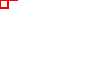
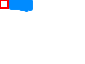
Commit of the day

Changed region(s): [[0.0941, 0.0, 0.4, 0.1875]]

diff --git a/Battleship/Battleship/Entity/ShipField.cs b/Battleship/Battleship/Entity/ShipField.cs
@@ -3,6 +3,7 @@ using System.Collections.Generic;
 using System.Linq;
 using System.Text;
 using Battleship.Model;
+using Battleship.Tools;
 using Microsoft.Xna.Framework;
 using Microsoft.Xna.Framework.Graphics;
 
@@ -48,7 +49,15 @@ namespace Battleship.Entity
         {
             for (int i = 0; i < defaultShipsSize.Length; i++)
             {
-                ships.Add(i, new Ship(20, i * 20, defaultShipsSize[i]));
+                ships.Add(i, new Ship(position.X, position.Y + i * (World.tileSize + 1), defaultShipsSize[i]));
+            }
+        }
+
+        public void update(float delta)
+        {
+            foreach (var item in ships)
+            {
+                item.Value.update(delta);
             }
         }
 
@@ -66,6 +75,16 @@ namespace Battleship.Entity
                     // world.getTilesLeft[j, i] = -1;
                 }
             }
+
+            foreach (var item in ships)
+            {
+                item.Value.draw(batch);
+            }
+        }
+
+        public void placeShip(Ship ship)
+        {
+            ship.setPosition(getX(ship.getX()), getY(ship.getY()));
         }
 
         public int getX(float x)
@@ -81,6 +100,29 @@ namespace Battleship.Entity
         public Ship getShip(int id)
         {
             return ships[id];
+        }
+
+        public Ship getShipByMouse(float x, float y)
+        {
+            Vector2 projectedPosition = Camera2D.unproject(x , y);
+            Point point = new Point((int)projectedPosition.X, (int)projectedPosition.Y);
+
+            foreach (var item in ships)
+            {
+                if (item.Value.getBounds().Contains(point))
+                {
+                    return item.Value;
+                }
+            }
+            return null;
+        }
+
+
+        public void move(Ship ship, float x, float y)
+        {
+            if (ship == null) return;
+
+            ship.setPosition(Camera2D.unproject(x, y));
         }
 
     }

diff --git a/Battleship/Battleship/Managers/InputManager.cs b/Battleship/Battleship/Managers/InputManager.cs
@@ -2,22 +2,50 @@
 using System.Collections.Generic;
 using System.Linq;
 using System.Text;
+using Battleship.Entity;
 using Battleship.Model;
+using Battleship.Tools;
+using Microsoft.Xna.Framework;
+using Microsoft.Xna.Framework.Input;
 
 namespace Battleship.Managers
 {
     public class InputManager
     {
         private World world;
+        private Vector2 mouse;
 
         public InputManager(World world)
         {
             this.world = world;
+            this.mouse = new Vector2();
         }
 
+        private Ship currentShip;
         public void update(float delta)
         {
+            mouse.X = Mouse.GetState().X;
+            mouse.Y = Mouse.GetState().Y;
 
+            if (Mouse.GetState().LeftButton == ButtonState.Pressed)
+            {
+               currentShip = world.getFieldLeft().getShipByMouse(mouse.X, mouse.Y);
+                if (currentShip != null)
+               Console.WriteLine("yaa" );
+            }
+            else if (Mouse.GetState().LeftButton == ButtonState.Released)
+            {
+
+            }
+
+            if (currentShip != null)
+            {
+                Vector2 pos = Camera2D.unproject(mouse.X, mouse.Y);
+                pos.X -= currentShip.getX();
+                pos.Y -= currentShip.getY();
+
+                world.getFieldLeft().move(currentShip, mouse.X - pos.X, mouse.Y - pos.Y);
+            }
         }
     }
 }

diff --git a/Battleship/Battleship/Entity/Entity.cs b/Battleship/Battleship/Entity/Entity.cs
@@ -44,8 +44,10 @@ namespace Battleship.Entity
             this.bounds.Height = (int)height;
         }
 
-        public void draw(SpriteBatch batch)
+        public virtual void draw(SpriteBatch batch)
         {
+            if (hidden) return;
+
             batch.Draw(Assets.getItems(), bounds, region, Color.White, rotation, Vector2.Zero, SpriteEffects.None, 0);
         }
 
@@ -54,6 +56,13 @@ namespace Battleship.Entity
             this.position.X = x;
             this.position.Y = y;
         }
+
+        public void setPosition(Vector2 position)
+        {
+            this.position.X = position.X;
+            this.position.Y = position.Y;
+        }
+
 
         public void setSize(float width, float height)
         {
@@ -64,6 +73,16 @@ namespace Battleship.Entity
         public Rectangle getBounds()
         {
             return bounds;
+        }
+
+        public float getX()
+        {
+            return position.X;
+        }
+
+        public float getY()
+        {
+            return position.Y;
         }
     }
 }

diff --git a/Battleship/Battleship/Controller/GameScreen.cs b/Battleship/Battleship/Controller/GameScreen.cs
@@ -42,6 +42,26 @@ namespace Battleship.Controller
             renderer.update(delta);
             
             world.update(delta);
+
+            input.update(delta);
+
+            switch (world.getState())
+            {
+                case World.State.Player1Init:
+                    break;
+                case World.State.Player2Init:
+                    break;
+                case World.State.Player1Turn:
+                    break;
+                case World.State.Player2Turn:
+                    break;
+                case World.State.Player1Win:
+                    break;
+                case World.State.Player2Win:
+                    break;
+                default:
+                    break;
+            }
         }
 
 

diff --git a/Battleship/Battleship/Model/World.cs b/Battleship/Battleship/Model/World.cs
@@ -60,7 +60,9 @@ namespace Battleship.Model
 
         public void update(float delta)
         {
-            Console.WriteLine(shipFieldLeft.getX(Camera2D.unproject(Mouse.GetState().X, Mouse.GetState().Y).X));
+            shipFieldLeft.update(delta);
+            shipFieldLeft.update(delta);
+            //Console.WriteLine(shipFieldLeft.getX(Camera2D.unproject(Mouse.GetState().X, Mouse.GetState().Y).X));
         }
 
         public ShipField getFieldLeft()
@@ -71,6 +73,11 @@ namespace Battleship.Model
         public ShipField getFieldRight()
         {
             return shipFieldRight;
+        }
+
+        public State getState()
+        {
+            return state;
         }
     }
 }

diff --git a/Battleship/Battleship/Entity/Ship.cs b/Battleship/Battleship/Entity/Ship.cs
@@ -2,6 +2,7 @@
 using System.Collections.Generic;
 using System.Linq;
 using System.Text;
+using Battleship.Model;
 using Microsoft.Xna.Framework;
 
 namespace Battleship.Entity
@@ -9,7 +10,8 @@ namespace Battleship.Entity
     public class Ship : Entity
     {
         private int size;
-        public Ship(float x, float y, int size) : base(Assets.getRegion("tile"), 0, 0, size, 1)
+        public Ship(float x, float y, int size)
+            : base(Assets.getRegion("ship"), x, y, size * World.tileSize, World.tileSize)
         {
             this.size = size;
         }
@@ -18,6 +20,5 @@ namespace Battleship.Entity
         {
             setSize(1, size);
         }
-
     }
 }

diff --git a/Battleship/Battleship/Assets.cs b/Battleship/Battleship/Assets.cs
@@ -28,6 +28,7 @@ namespace Battleship
             
             // Load our assets regions
             loadRegion("tile", 0, 0, 8, 8);
+            loadRegion("ship", 8, 0, 8, 8);
 
             // Load font 
             font = manager.Load<SpriteFont>("Font/font");
